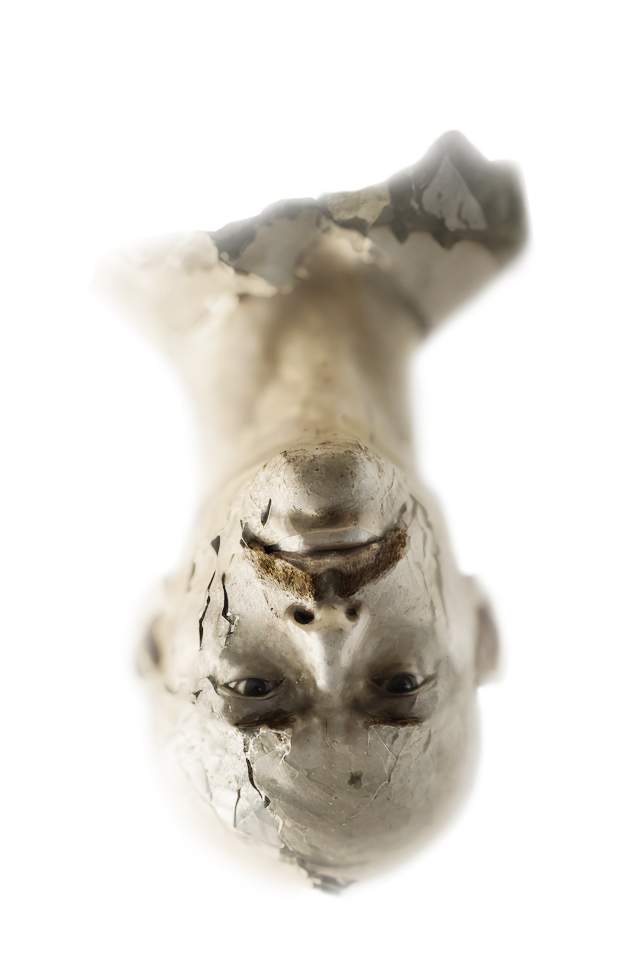
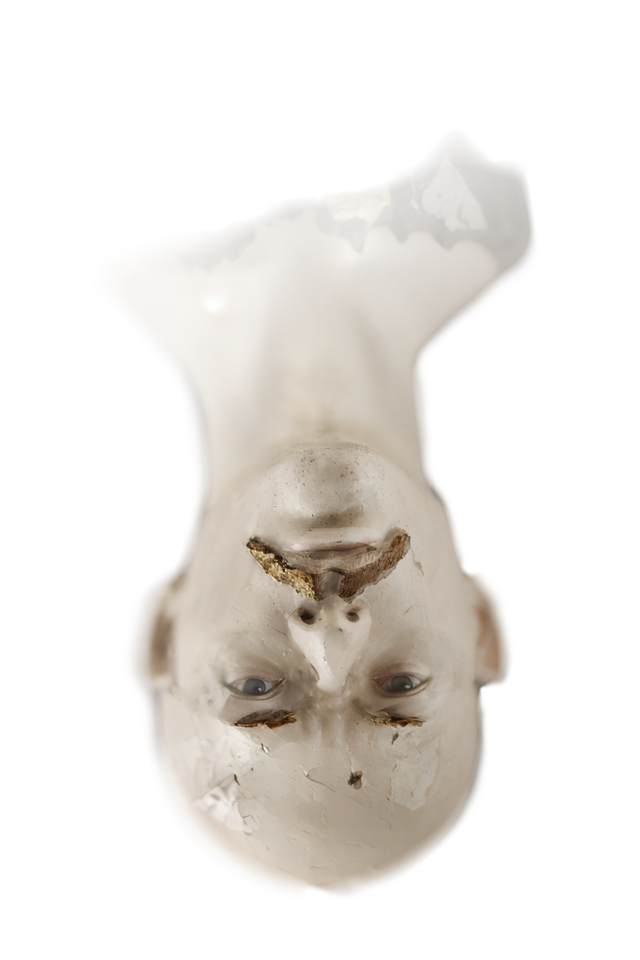
fix: fixes & ui changes

Changed region(s): [[0.2188, 0.125, 0.8438, 0.9375]]

diff --git a/components/Head/Head.tsx b/components/Head/Head.tsx
@@ -7,7 +7,7 @@ import { transition } from "theme/utils"
 import { MeshPhysicalMaterial, Object3D, TextureLoader, Vector2, Vector3 } from "three"
 import { useGLTF } from "@react-three/drei"
 import { useColorScheme } from "@mui/joy"
-import { useEffect, useRef } from "react"
+import { useEffect, useRef, useState } from "react"
 import type { GLTF } from "three/examples/jsm/loaders/GLTFLoader"
 import type { BufferGeometry, Group } from "three/src/Three"
 
@@ -38,13 +38,23 @@ const style = {
     }
   },
   canvas: {
-    transition: transition("top"),
+    transition: "top ease 1s, opacity ease 1s",
     position: "absolute",
 
     maxWidth: "100vw",
     width: "100%",
     height: "min(1100px, 100vh)",
     left: 0,
+    opacity: 0,
+
+    top: "33%",
+
+    [mq.under.tablet]: {
+      top: "50%"
+    },
+  },
+  visible: {
+    opacity: 1,
     top: "25%",
 
     [mq.under.tablet]: {
@@ -189,7 +199,7 @@ const Sculpture = () => {
       y = lookPosRef.current.y * mobileMovementRange
       step = 0.001
     } else { // pointer motion
-      const mouseMovementRange = 0.4
+      const mouseMovementRange = 0.2
       x = lookPosRef.current.x * mouseMovementRange
       y = lookPosRef.current.y * mouseMovementRange
       step = 0.001
@@ -233,12 +243,22 @@ const Sculpture = () => {
 const Head = () => {
   const { mode } = useColorScheme()
   const isDark = mode === "dark"
+  const [isReady, setReady] = useState(false)
+
+  const handleCreated = () => {
+    setReady(true)
+  }
 
   return (
     <Box sx={style.container}>
       <Box sx={style.halo} />
 
-      <Box sx={style.canvas}>
+      <Box
+        sx={{
+          ...style.canvas,
+          ...(isReady ? style.visible : {})
+        }}
+      >
         <Canvas
           eventSource={document.body}
           style={{ pointerEvents: "none" }}
@@ -248,7 +268,7 @@ const Head = () => {
             far: 20,
             position: [0, 1, 5]
           }}
-          onCreated={() => { }}
+          onCreated={handleCreated}
         >
           <ambientLight intensity={isDark ? 0.75 : 1.5} />
           <directionalLight

diff --git a/components/Radar/Radar.tsx b/components/Radar/Radar.tsx
@@ -98,7 +98,7 @@ export const Radar = ({
     }
   }
 
-  const RADIUS_INNER = (size / 2) / 4
+  const RADIUS_INNER = (size / 2) / 2
   const RADIUS_OUTER = (size / 2) - 25
   const RING_SIZE = size / 4
 
@@ -117,7 +117,7 @@ export const Radar = ({
 
   const d = d3
     .lineRadial()
-    .curve(d3.curveCardinalClosed.tension(0.5))
+    .curve(d3.curveCardinalClosed.tension(0.25))
 
   const paths = data.map((layer, l) => {
     const labels = []

diff --git a/todo.md b/todo.md
@@ -1,15 +1,7 @@
-check head materials to be more popping
 finish SEO and OG https://www.datocms.com/docs/next-js/seo-management https://nextjs.org/docs/app/api-reference/functions/
 finish error pages https://nextjs.org/docs/app/building-your-application/routing/error-handlinggenerate-metadata#opengraph
 check TODOs
 run tests on https://search.google.com/test/mobile-friendly and lighthouse etc
-add more projects:
-  add my head project
-  mity antykoncepcji
-  amdg.agency
-  gregbak V4
-  kompastradycji
-
 implement notice snackbars
 add animations https://blog.logrocket.com/advanced-page-transitions-next-js-framer-motion/
 check reader modes everywhere
